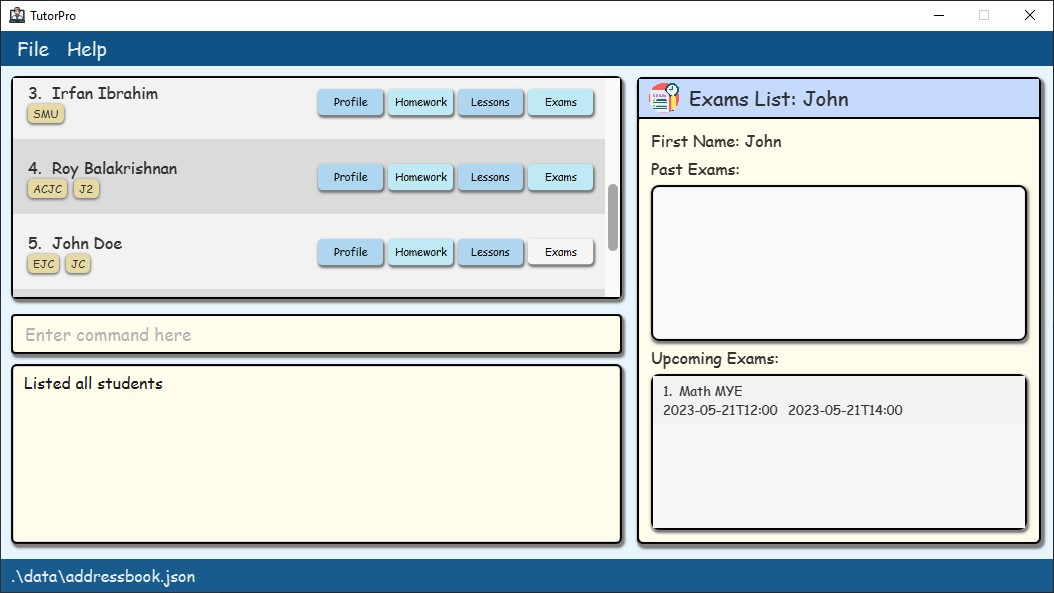
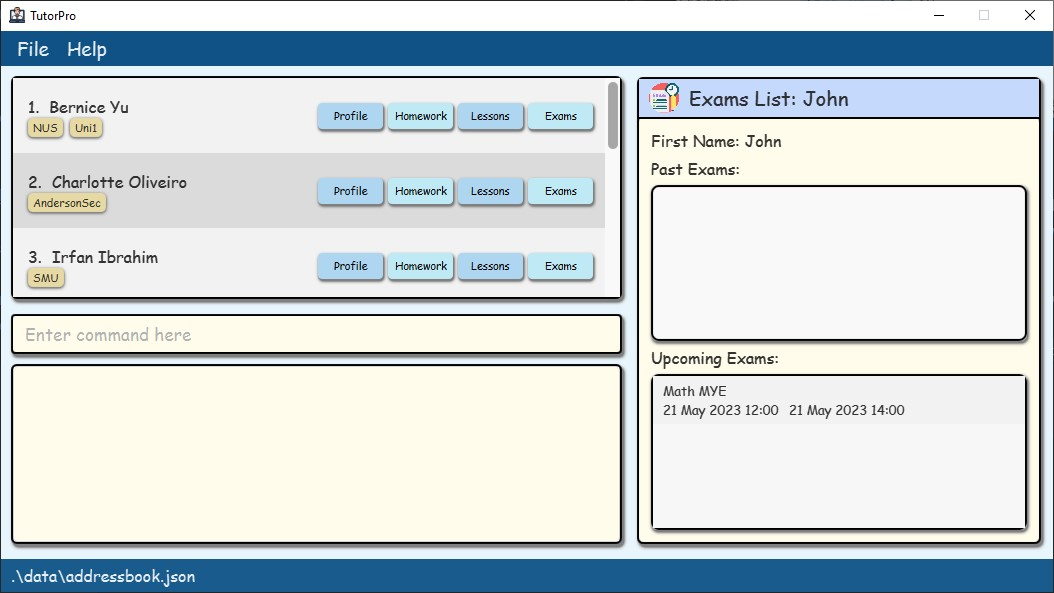
Fixes Errors

diff --git a/src/main/resources/view/stylesheet/LightTheme.css b/src/main/resources/view/stylesheet/LightTheme.css
@@ -98,7 +98,6 @@
 
 .list-cell:filled:selected {
     -fx-background-color: #b4c5d4;
-    -fx-effect: dropshadow(gaussian, grey, 5, 0.5, 2, 3);
 }
 
 .list-cell:filled:selected #cardPane {

diff --git a/docs/UserGuide.md b/docs/UserGuide.md
@@ -137,8 +137,11 @@ showing all the upcoming lessons.
 
 ![Starting Display Window](images/Lessons.jpg)
 
-:bulb: **Tip:** If you want to see the index of the lessons in the list,
+:bulb: **Tip:** Lesson Lists do not have indexes to avoid confusion with the indexes of the lessons in the original list.
+If you want to see the index of the lessons in the list,
 you can use the `view-lessons` command to view the list of lessons.
+
+:bulb: **Tip:** This page only shows the most basic information of the lessons. If you want to see more details of the lessons, you can use the `view-lessons` command to view the list of lessons.
 
 #### Exams Page
 
@@ -150,8 +153,11 @@ showing all the upcoming exams.
 
 ![Starting Display Window](images/Exams.jpg)
 
-:bulb: **Tip:** If you want to see the index of the exams in the list,
+:bulb: **Tip:** Exam Lists do not have indexes to avoid confusion with the indexes of the exams in the original list.
+If you want to see the index of the exams in the list,
 you can use the `view-exams` command to view the list of exams.
+
+:bulb: **Tip:** This page only shows the most basic information of the exams. If you want to see more details of the exams, you can use the `view-exams` command to view the list of exams.
 
 ## Commands
 
@@ -166,17 +172,17 @@ you can use the `view-exams` command to view the list of exams.
 * Unless otherwise specified, the order of prefixes doesn't matter.<br>
   e.g. if the command specifies `name/NAME phone/PHONE_NUMBER`, `phone/PHONE_NUMBER name/NAME` is also acceptable unless stated otherwise in a particular command.
 * Parameters can be in any order.
-  * TutorPro allows you to execute commands on students in the entire student list, instead of just the displayed list. 
-    For example: 
-    - currently, the displaying list only shows one student, `Bernice Yu`.
+* TutorPro allows you to execute commands on students in the entire student list, instead of just the displayed list. 
+  For example: 
+  - currently, the displaying list only shows one student, `Bernice Yu`.
     
-      ![Entire List](images/entireList1.jpg)
-    - However, you can still execute commands to `John Doe` even though he is not displayed in the list.
+    ![Entire List](images/entireList1.jpg)
+  - However, you can still execute commands to `John Doe` even though he is not displayed in the list.
     
-      ![Entire List](images/entireList2.jpg)
-    - This is because `John Doe` is in the original student list, and the command will be executed on the original student list.
+    ![Entire List](images/entireList2.jpg)
+  - This is because `John Doe` is in the original student list, and the command will be executed on the original student list.
       
-    - ![Entire List](images/entireList3.jpg)
+  - ![Entire List](images/entireList3.jpg)
     
 ### Search by Name Mechanism
 
